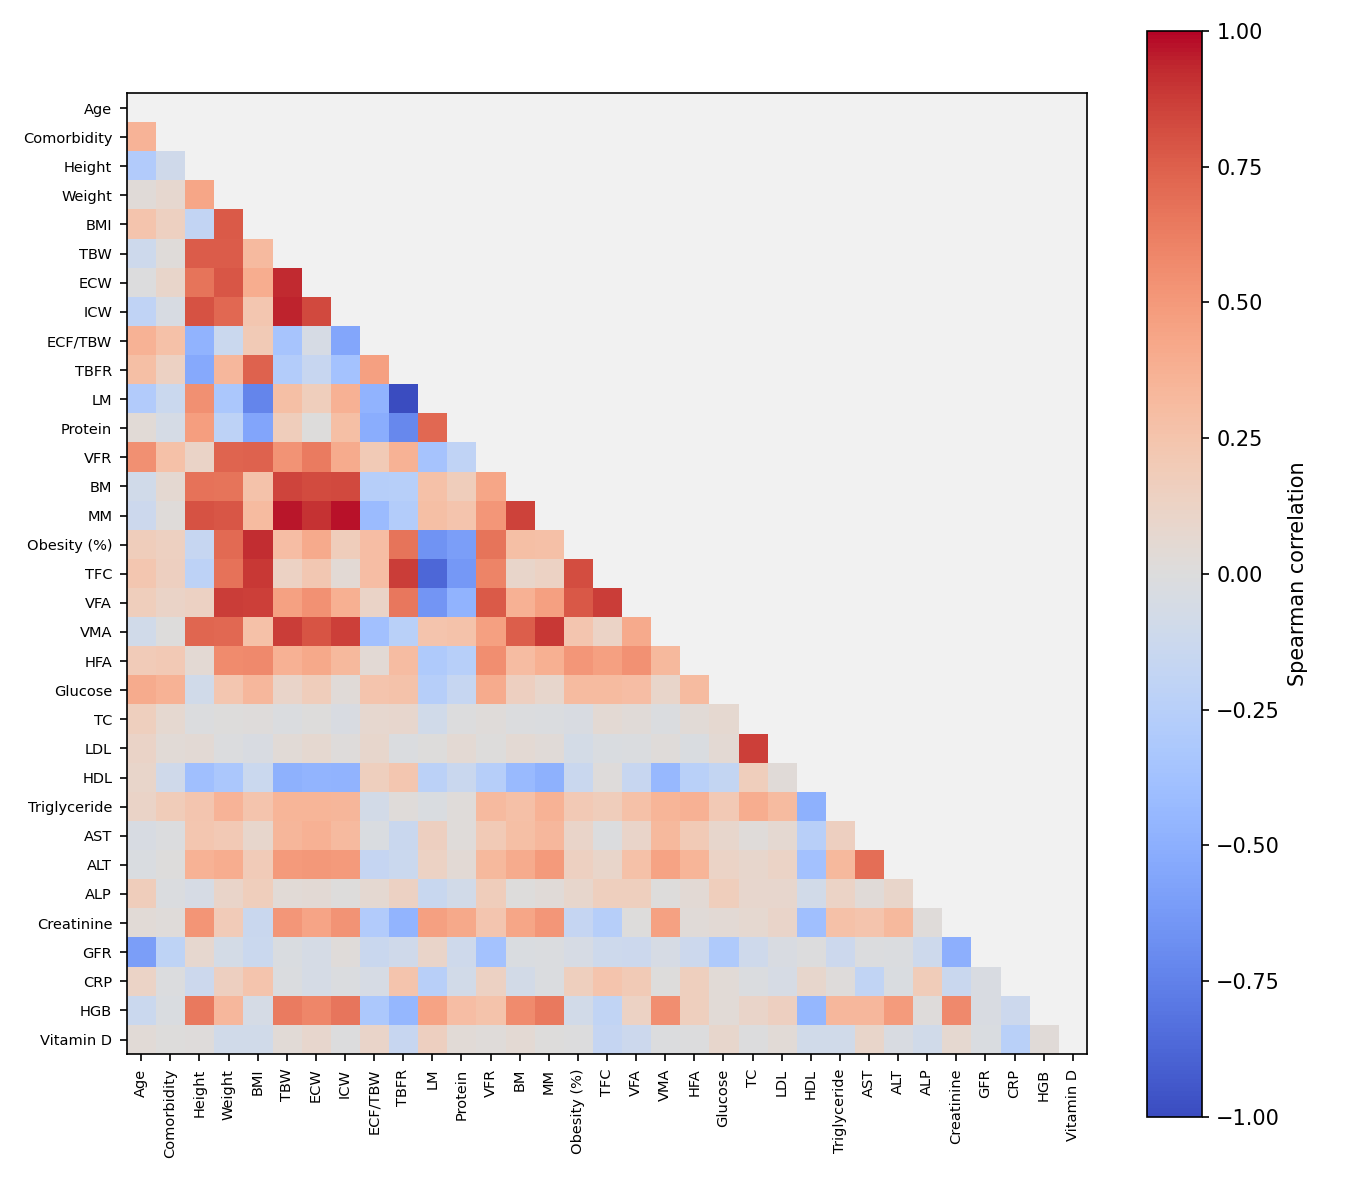
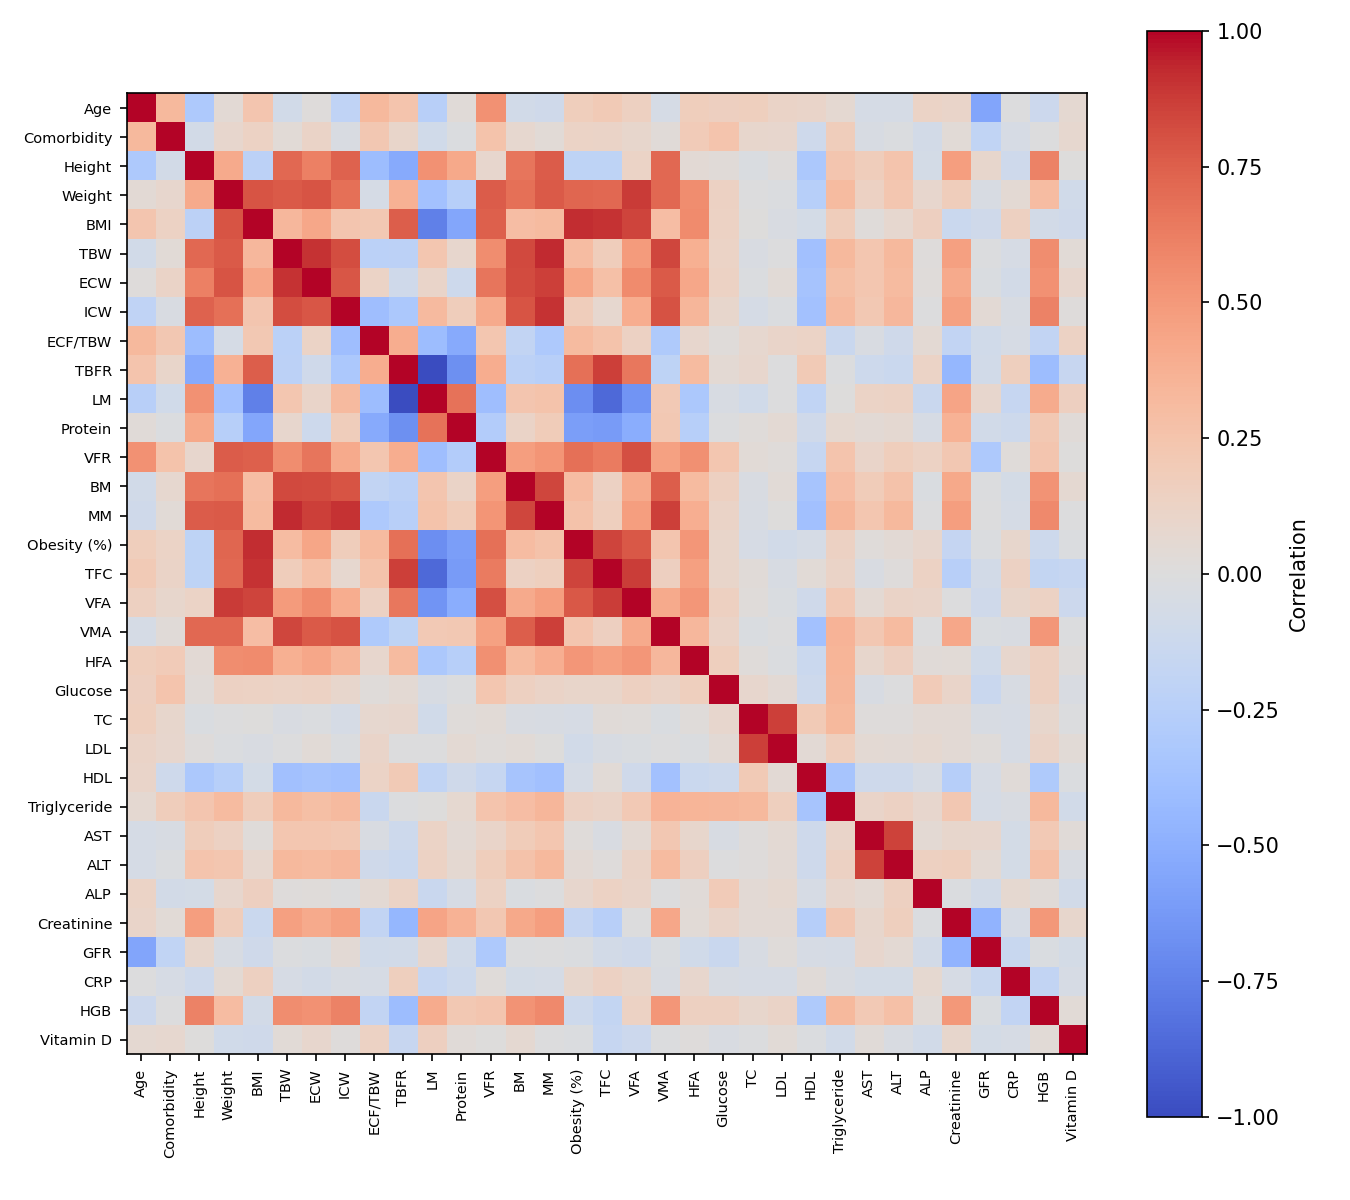
Comments for explore

diff --git a/explore.py b/explore.py
@@ -35,7 +35,7 @@ def main():
    
     df, target = load_clean()  # df is cleaned table of measurements, target is diagnosis of each patient (0 or 1)
 
-    # Plot 1: class balance
+    #plot 1: class balance
     counts = target.value_counts().sort_index() #count and sort gallstone diagnosis sums so that 0 is the first ros
     plt.bar(["Gallstones", "No gallstones"], counts, color=COLORS) #draws bar chart, with the counts as heights
     plt.title("Class balance")
@@ -44,39 +44,38 @@ def main():
     print("Plot 1 succesfull")
 
 
-    # Plot 2: Compare gallstone groups using boxplots
+    #plot2 : Compare gallstone groups using boxplots
+    #find the 6 features most related to the diagnosis
+    correlations = df[continuous].corrwith(target)  #continuous columns only: how much each follows the diagnosis (assigns number between -1 to 1, near zero means almost no link)
+    strength = correlations.abs()                   #absolute value because of corrwith default function
+    strongest = strength.sort_values(ascending=False) #sort the continious columns where strongest correlation are on top
+    top = strongest.head(6).index                   #names the 6 features on top of the list
 
-    # Find the 6 features most related to the diagnosis
-    correlations = df[continuous].corrwith(target) #only the continious columns , corrwith gives how much the feature follows the diagnosis
-    top = correlations.abs().sort_values(ascending=False).head(6).index #creates a list of feature names, strongest feature first
+    #build a table with the six features and the group of each patient
+    data = df[top].rename(columns=short)            #variable with the 6 names of top list shortened (short def from load_data.py)
+    data["Group"] = target.map({0: "Gallstones", 1: "None"})  #creates new column called Group where 0 and 1 are assigned the names "Gallstone" and None
 
-    # Table with one row per measurement: Group, Feature, Value
-    data = df[top].rename(columns=short) #use only six chosen columns, short name from load_data
-    data["Group"] = target.map({0: "Gallstones", 1: "None"}) #replaces diagnosis 0, 1 with a word
-    data = data.melt(id_vars="Group")
+    #step 3: stack the features into one long column: one row per measurement
+    data = data.melt(id_vars="Group")               #combines the entirety of the feature colunmns into a single column, so each row is one measurement, must be done beecause px.box limitations
 
-    # One boxplot panel per feature, 3 panels per row
-    fig = px.box(data, x="Group", y="value", facet_col="variable", facet_col_wrap=3)
-    fig.update_yaxes(matches=None)  # every panel gets its own y-scale
-    fig.update_layout(title="Comparison of Features Between Gallstone Groups", showlegend=False)
-    fig.show()
+    #step 4: draw one boxplot panel per feature, 3 panels per row
+    fig = px.box(data, x="Group", y="value", facet_col="variable", facet_col_wrap=3) #from data, draw boxplots with Group on x-axis and value on y-axis, make one panel for each variable and wrap after 3 panels
+    fig.update_yaxes(matches=None)                  #every panel gets its own y-scale
+    fig.update_layout(title="Comparison of Features Between Gallstone Groups", showlegend=False) #titling
+    fig.show() 
+    print ("Plot 2 in browser (downloadable)")
 
-    # Plot 3: correlation between the continuous features (lower triangle only)
-    labels = [short(c) for c in continuous]
-    corr = df[continuous].corr(method="spearman")
-    mask = np.zeros_like(corr, dtype=bool)
-    mask[np.triu_indices_from(mask)] = True  # True for the diagonal and the upper triangle
-    corr[mask] = np.nan  # hide those cells
-    cmap = plt.get_cmap("coolwarm").copy()
-    cmap.set_bad("#f1f1f1")  # color NaNs grey
-    plt.figure(figsize=(9, 8))
-    plt.imshow(corr, cmap=cmap, vmin=-1, vmax=1)
-    plt.colorbar(label="Spearman correlation")
-    plt.xticks(range(len(labels)), labels, rotation=90, fontsize=7)
-    plt.yticks(range(len(labels)), labels, fontsize=7)
+    #plot 3: correlation between the continuous features 
+    corr = df[continuous].rename(columns=short).corr()  # correlation between all continuous features, with short names
+    plt.figure(figsize=(9, 8)) #draw empty canvas 9x8
+    plt.imshow(corr, cmap="coolwarm", vmin=-1, vmax=1) #drwa corr table, one square per cell
+    plt.colorbar(label="Correlation") 
+    plt.xticks(range(len(corr)), corr.columns, rotation=90, fontsize=7) #gives positions for each column, names to write at positions, turn the names so they dont overlap
+    plt.yticks(range(len(corr)), corr.columns, fontsize=7) #same for y-axis, obviously don't need rotating here
     plt.tight_layout()
     plt.savefig("fig_3_correlation.png", dpi=150)
     plt.close()
+    print("Plot 3 successful")
 
 
 if __name__ == "__main__":
